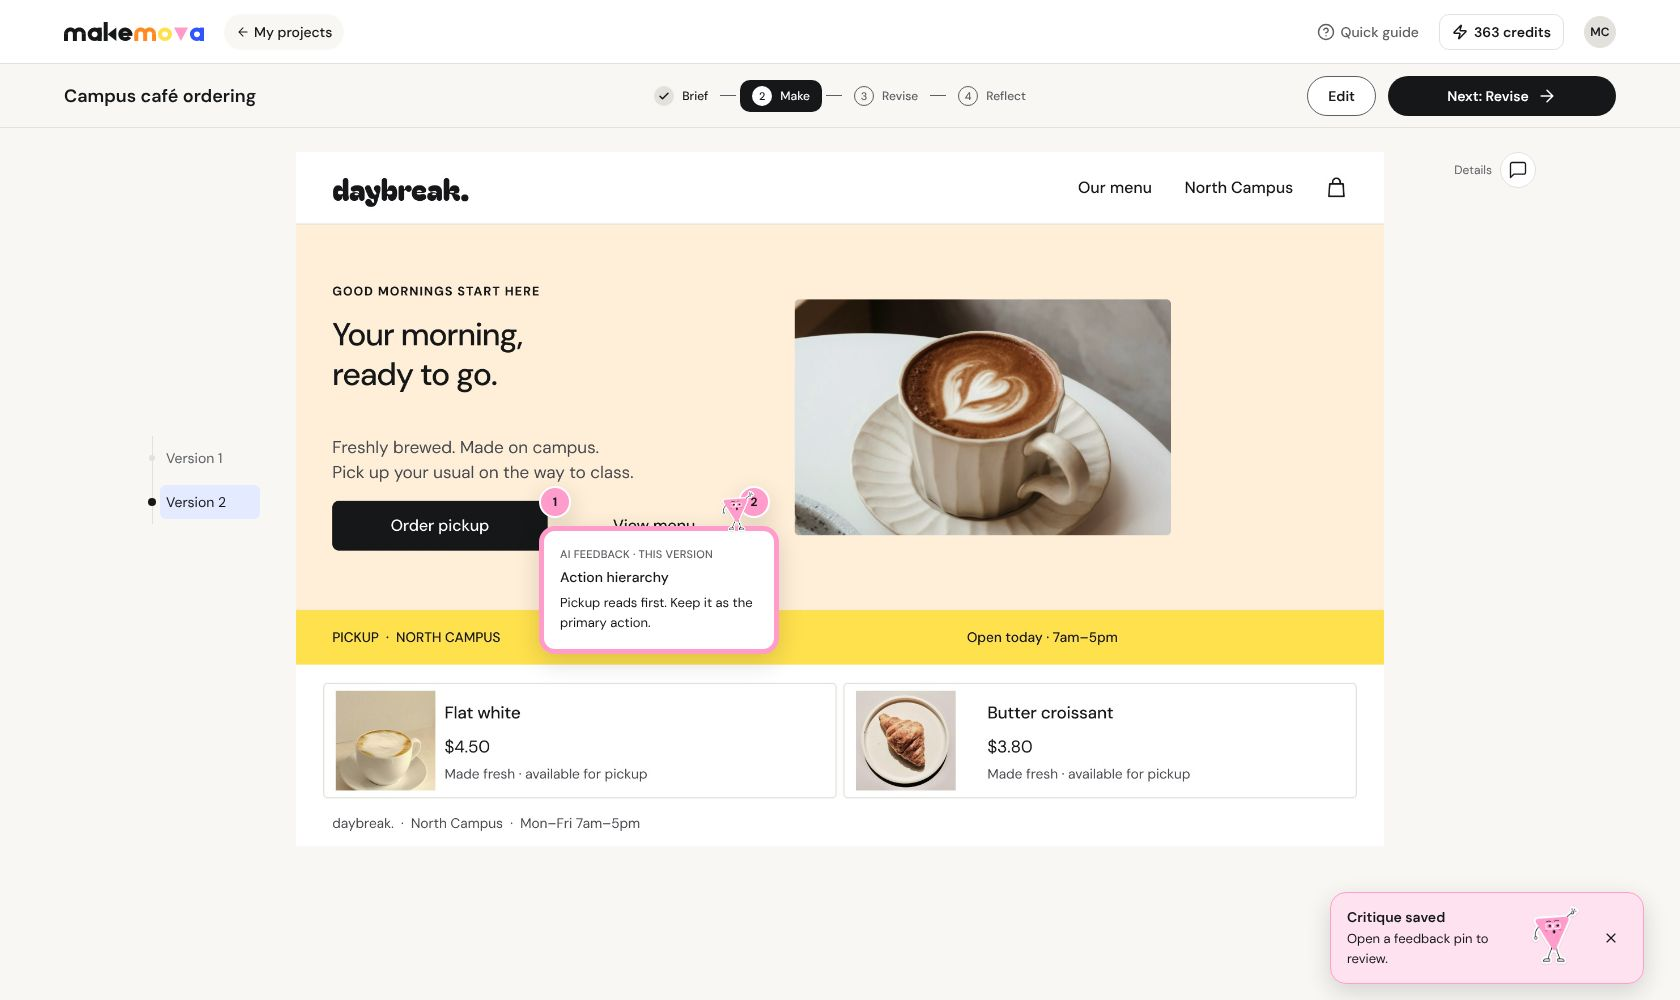
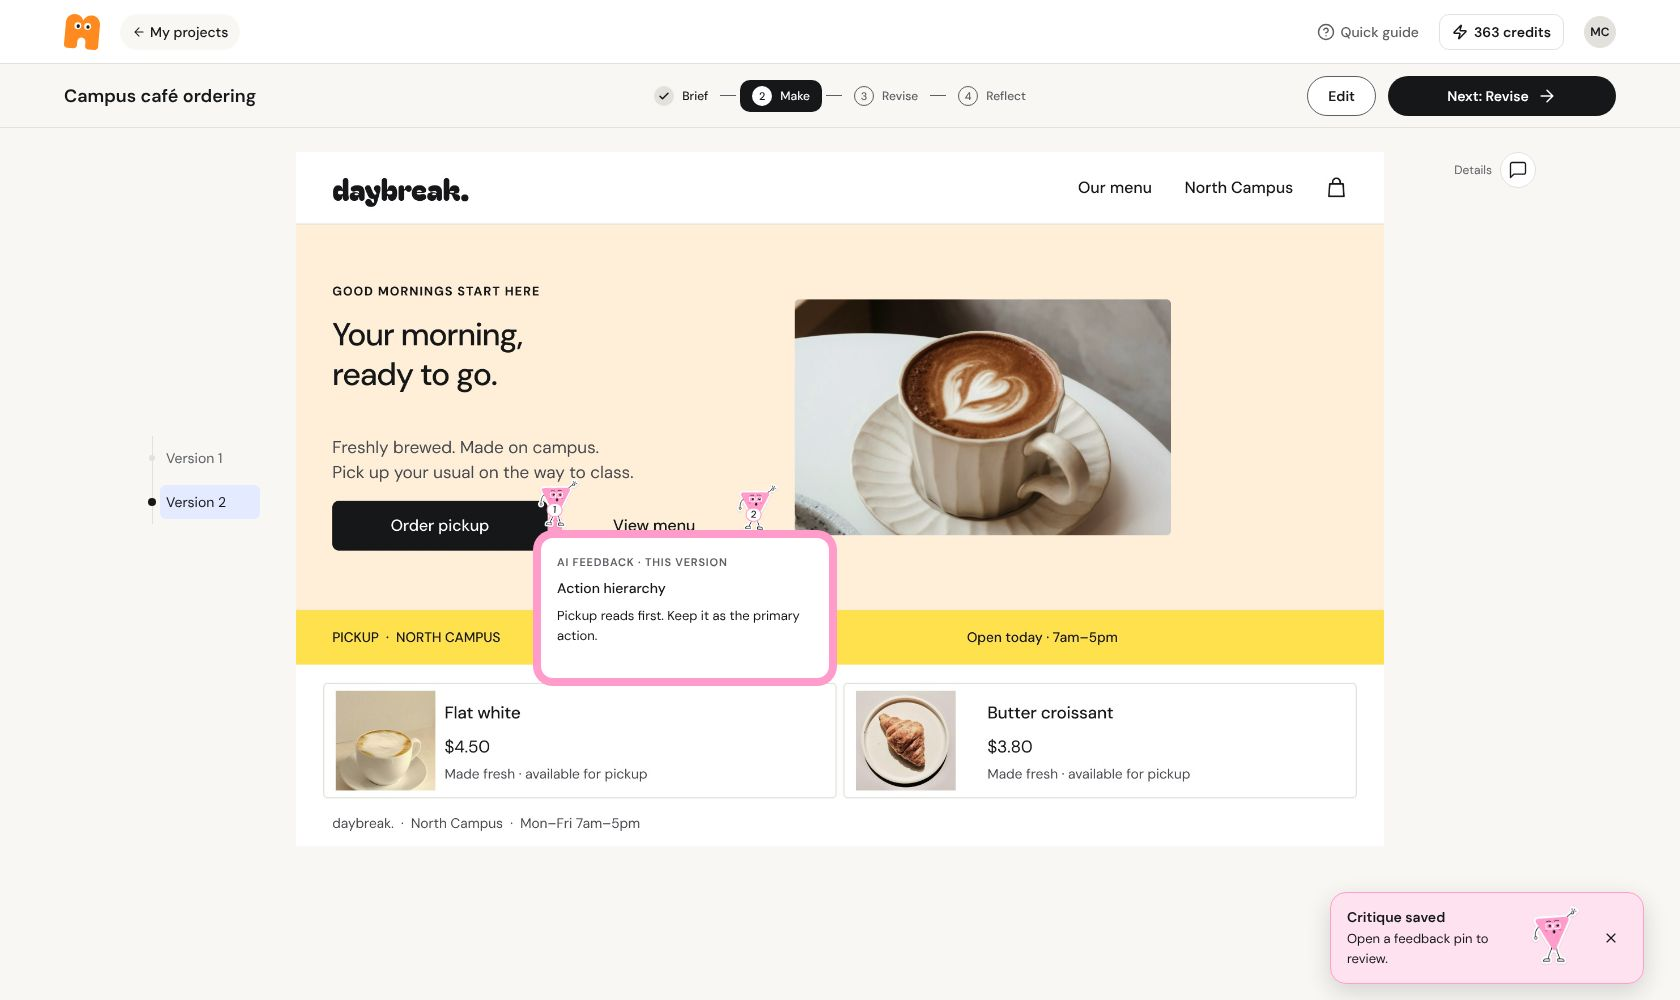
Draw critique feedback pins as Versa, as in Figma
Each pin is the Versa sticker holding its number badge. Hover or click
grows the pink shell from behind Versa's head into the "AI feedback ·
this version" card (420 ms open, 280 ms close after a 120 ms leave
delay, from Makemova / Feedback pin / Versa 11125:65033). While closed,
Versa bobs and tips; reduce motion keeps it still.

Claude-Session: https://claude.ai/code/session_018MptG2Tecoeczevi8ZnP2A

Changed region(s): [[0.3095, 0.465, 0.5262, 0.713], [0.031, 0.0, 0.1238, 0.062], [0.1548, 0.031, 0.1857, 0.062]]

diff --git a/makemova/components/FeedbackPin.tsx b/makemova/components/FeedbackPin.tsx
@@ -1,9 +1,10 @@
-import { useState } from 'react';
-import { Pressable, Text, View, type DimensionValue } from 'react-native';
+import { Image } from 'expo-image';
+import { useEffect, useRef, useState } from 'react';
+import { Animated, Easing, Pressable, Text, View, type DimensionValue } from 'react-native';
 
-import { Sticker } from '@/components/Sticker';
-import { hoverShadow } from '@/lib/ui';
-import { size } from '@/tokens';
+import { asset } from '@/lib/ui';
+import { easeInOut, easeOut, useReducedMotion } from '@/lib/motion';
+import { color, feedbackPinArt as art, play } from '@/tokens';
 
 type Props = {
   number: number;
@@ -13,48 +14,140 @@ type Props = {
   side?: 'left' | 'right';
   /** Figma property State. Uncontrolled: hover or click opens it. */
   state?: 'closed' | 'open';
-  /** Position on the drawn screen: px, or a share of it ("22%") so pins follow any screen size. */
+  /** Position of the 32 × 32 pin frame on the drawn screen: px, or a share of it ("22%"). */
   left: DimensionValue;
   top: DimensionValue;
 };
 
+const box = (r: readonly number[]) => ({ position: 'absolute' as const, left: r[0], top: r[1], width: r[2], height: r[3] });
+
 /**
- * Figma: Makemova / Feedback pin / Versa (11125:65033). A numbered pin on the critiqued screen.
- * Prototype: While hovering or On click → State=Open (the "AI feedback · this version" card).
+ * Figma: Makemova / Feedback pin / Versa (11125:65033). Versa stands on the critiqued screen holding the
+ * feedback number. Prototype: While hovering or On click → State=Open, Smart animate 420 ms: a pink shell
+ * grows out from behind Versa's head into the "AI feedback · this version" card. Mouse leave (after 120 ms)
+ * or click → State=Closed, 280 ms. While closed, Versa bobs and tips, each pin a beat after the last.
  */
 export function FeedbackPin({ number, title, body, side = 'right', state, left, top }: Props) {
+  const reduced = useReducedMotion();
   const [hover, setHover] = useState(false);
   const [pinned, setPinned] = useState(false);
   const open = state ? state === 'open' : hover || pinned;
+
+  const grow = useRef(new Animated.Value(open ? 1 : 0)).current;
+  const idle = useRef(new Animated.Value(0)).current;
+  const hop = useRef(new Animated.Value(0)).current;
+  const leave = useRef<ReturnType<typeof setTimeout> | null>(null);
+
+  useEffect(() => {
+    if (reduced) {
+      grow.setValue(open ? 1 : 0);
+      return;
+    }
+    const run = Animated.timing(grow, {
+      toValue: open ? 1 : 0,
+      duration: open ? play.pinOpen : play.pinClose,
+      easing: easeOut,
+      useNativeDriver: false,
+    });
+    run.start();
+    Animated.sequence([
+      Animated.timing(hop, { toValue: open ? 1 : 0, duration: play.hover, easing: easeOut, useNativeDriver: false }),
+    ]).start();
+    return () => run.stop();
+  }, [open, reduced, grow, hop]);
+
+  useEffect(() => {
+    if (reduced) return;
+    const loop = Animated.loop(
+      Animated.sequence([
+        Animated.delay(((number - 1) * play.pinIdleStagger) % play.pinIdle),
+        Animated.timing(idle, { toValue: 1, duration: play.pinIdle / 2, easing: easeInOut, useNativeDriver: false }),
+        Animated.timing(idle, { toValue: 0, duration: play.pinIdle / 2, easing: easeInOut, useNativeDriver: false }),
+      ]),
+    );
+    loop.start();
+    return () => loop.stop();
+  }, [reduced, number, idle]);
+
+  useEffect(() => () => {
+    if (leave.current) clearTimeout(leave.current);
+  }, []);
+
+  const shellOpen = side === 'right' ? art.shellRight : art.shellLeft;
+  const belly = side === 'right' ? art.bellyRight : art.bellyLeft;
+  const lerp = (i: number) => grow.interpolate({ inputRange: [0, 1], outputRange: [art.shellClosed[i], shellOpen[i]] });
+  const fade = grow.interpolate({ inputRange: [0, 0.35, 1], outputRange: [0, 1, 1] });
+  const words = grow.interpolate({ inputRange: [0, 0.5, 1], outputRange: [0, 0, 1] });
+  const rise = Animated.add(
+    idle.interpolate({ inputRange: [0, 1], outputRange: [0, -play.pinIdleRise] }),
+    hop.interpolate({ inputRange: [0, 1], outputRange: [0, -play.pinHop] }),
+  );
+  const tip = idle.interpolate({ inputRange: [0, 1], outputRange: ['0deg', `${play.pinIdleTip}deg`] });
+
   return (
-    <View style={{ position: 'absolute', left, top, zIndex: open ? 3 : 2 }}>
+    <View
+      style={{ position: 'absolute', left, top, width: art.badge[0] * 4, height: art.badge[0] * 4, zIndex: open ? 3 : 2 }}
+      pointerEvents="box-none"
+    >
+      {/* Critique / Character shell: grows from behind Versa's head into the card. */}
+      <Animated.View
+        pointerEvents="none"
+        style={{
+          position: 'absolute',
+          left: lerp(0),
+          top: lerp(1),
+          width: lerp(2),
+          height: lerp(3),
+          opacity: fade,
+          borderRadius: art.shellRadius,
+          backgroundColor: color.versaPink,
+        }}
+      />
+      {/* Character / Neck */}
+      <Animated.View
+        pointerEvents="none"
+        style={[box(art.neck), { opacity: fade, borderRadius: art.neckRadius, backgroundColor: color.versaPink }]}
+      />
+      {/* Feedback / Belly */}
+      <Animated.View
+        pointerEvents={open ? 'auto' : 'none'}
+        accessibilityElementsHidden={!open}
+        importantForAccessibility={open ? 'auto' : 'no-hide-descendants'}
+        style={[
+          box(belly),
+          { opacity: words, borderRadius: art.bellyRadius, padding: art.bellyPadding, gap: art.bellyGap, backgroundColor: color.white },
+        ]}
+      >
+        <Text className="font-semibold text-pinSource text-secondaryText">AI FEEDBACK · THIS VERSION</Text>
+        <Text className="font-medium text-labelUi text-ink">{title}</Text>
+        <Text className="font-regular text-bodySmall text-ink">{body}</Text>
+      </Animated.View>
+
+      {/* Character / Versa sticker with Feedback / Number badge on its body. */}
       <Pressable
         accessibilityRole="button"
         accessibilityLabel={`Feedback ${number}: ${title}`}
         accessibilityState={{ expanded: open }}
         onPress={() => setPinned(!pinned)}
-        onHoverIn={() => setHover(true)}
-        onHoverOut={() => setHover(false)}
-        className="h-feedbackPin w-feedbackPin items-center justify-center rounded-pill border-focus border-white bg-versaPink"
-        style={hoverShadow}
+        onHoverIn={() => {
+          if (leave.current) clearTimeout(leave.current);
+          setHover(true);
+        }}
+        onHoverOut={() => {
+          leave.current = setTimeout(() => setHover(false), play.pinLeaveDelay);
+        }}
+        style={box(art.sticker)}
       >
-        <Text className="font-bold text-labelSmall text-ink">{number}</Text>
+        <Animated.View style={{ flex: 1, transform: [{ translateY: rise }, { rotate: tip }] }}>
+          <Image source={asset.crewV3.versa} style={box(art.art)} contentFit="fill" />
+          <View
+            style={[box(art.badge), { borderRadius: art.badgeRadius }]}
+            className="items-center justify-center border border-versaPink bg-white"
+          >
+            <Text className="font-medium text-pinNumber text-ink">{number}</Text>
+          </View>
+        </Animated.View>
       </Pressable>
-      {open && (
-        <View
-          className="w-feedbackPinCard gap-6 rounded-16 border-radio border-versaPink bg-white p-16"
-          style={[
-            { position: 'absolute', top: size.feedbackPin + size.feedbackPin / 4 },
-            side === 'right' ? { left: 0 } : { right: 0 },
-            hoverShadow,
-          ]}
-        >
-          <Sticker crew="versa" width={size.feedbackPin} style={{ position: 'absolute', right: size.feedbackPin / 2, top: -size.feedbackPin }} />
-          <Text className="font-medium text-meta text-secondaryText">AI FEEDBACK · THIS VERSION</Text>
-          <Text className="font-medium text-labelUi text-ink">{title}</Text>
-          <Text className="font-regular text-bodySmall text-ink">{body}</Text>
-        </View>
-      )}
     </View>
   );
 }

diff --git a/makemova/tokens.ts b/makemova/tokens.ts
@@ -127,6 +127,8 @@ export const textStyle = {
   eyebrow: { size: 13, lineHeight: 16, letterSpacing: 1.3 },
   labelSmall: { size: 12, lineHeight: 16, letterSpacing: 0 },
   meta: { size: 11, lineHeight: 14, letterSpacing: 0.22 },
+  pinSource: { size: 11, lineHeight: 16, letterSpacing: 0.8 }, // Feedback pin · Source (11125:65114)
+  pinNumber: { size: 10, lineHeight: 12, letterSpacing: 0 }, // Feedback pin · Number (11125:65102)
   // MOVA tool card · 8.2 icon edge (11159:20888): the card is drawn at 104 / 140 scale
   toolName: { size: 16.714, lineHeight: 22.286, letterSpacing: 0 },
   toolIntro: { size: 12.071, lineHeight: 16.714, letterSpacing: 0 },
@@ -736,6 +738,15 @@ export const play = {
   },
   seesaw: 3.5, // degrees Versa's ink shape tips while comparing
   swell: 0.16, // how much the loose magnifier grows when it finds something
+  // Makemova / Feedback pin / Versa (11125:65033): Smart animate 420 ms to open, 280 ms to close after a 120 ms leave delay.
+  pinOpen: 420,
+  pinClose: 280,
+  pinLeaveDelay: 120,
+  pinIdle: 1800, // Versa bobs and tips while it waits on the screen
+  pinIdleRise: 2,
+  pinIdleTip: 4, // degrees
+  pinIdleStagger: 260,
+  pinHop: 5,
   glintAngle: 24,
   glintOpacity: 0.85,
   hiEvery: 4600, // hero Mate says hi again
@@ -788,3 +799,26 @@ export const shadow = {
 
 export const tokens = { color, role, fontFamily, type, textStyle, space, radius, size, border, shadow, crewArt, opacity, blur, motion, crewLayers, artiGlass, artiShine, puzzleLetters, play };
 export default tokens;
+
+/**
+ * Makemova / Feedback pin / Versa (11125:65033), px from the 32 × 32 pin frame.
+ * Closed: the Versa · Compare sticker with a number badge on its body. Open: a pink shell grows from behind
+ * Versa's head into the feedback card (Smart animate), joined to it by the neck.
+ */
+export const feedbackPinArt = {
+  sticker: [0, 0, 40.5, 49.2], // Character / Versa sticker frame
+  art: [-7, -2.1, 51.4, 51.6], // sticker-versa.png drawn so its die-cut edge lands on the Figma art (-5.4, -0.2, 47.4 × 50.8)
+  badge: [8, 24, 16, 14],
+  neck: [9, 28, 14, 24],
+  shellClosed: [-6, -8, 44, 44],
+  shellRight: [-6, 44, 304, 156],
+  shellLeft: [-266, 44, 304, 156],
+  bellyRight: [2, 52, 288, 140],
+  bellyLeft: [-258, 52, 288, 140],
+  shellRadius: 20,
+  neckRadius: 7,
+  badgeRadius: 7,
+  bellyRadius: 12,
+  bellyPadding: 16,
+  bellyGap: 8, // Source → title → body
+} as const;
